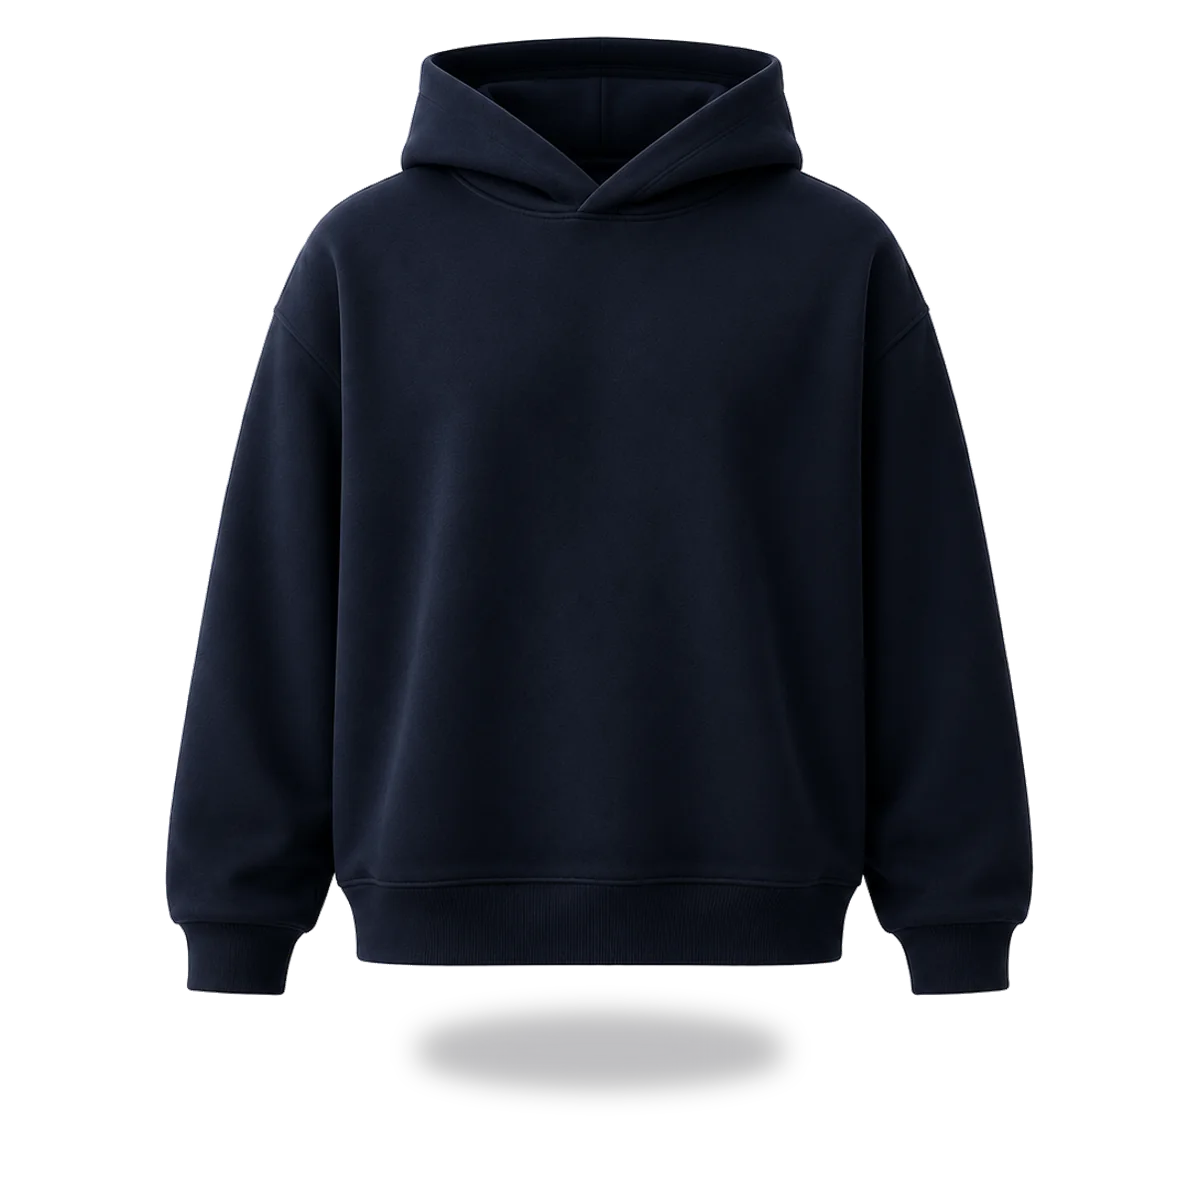
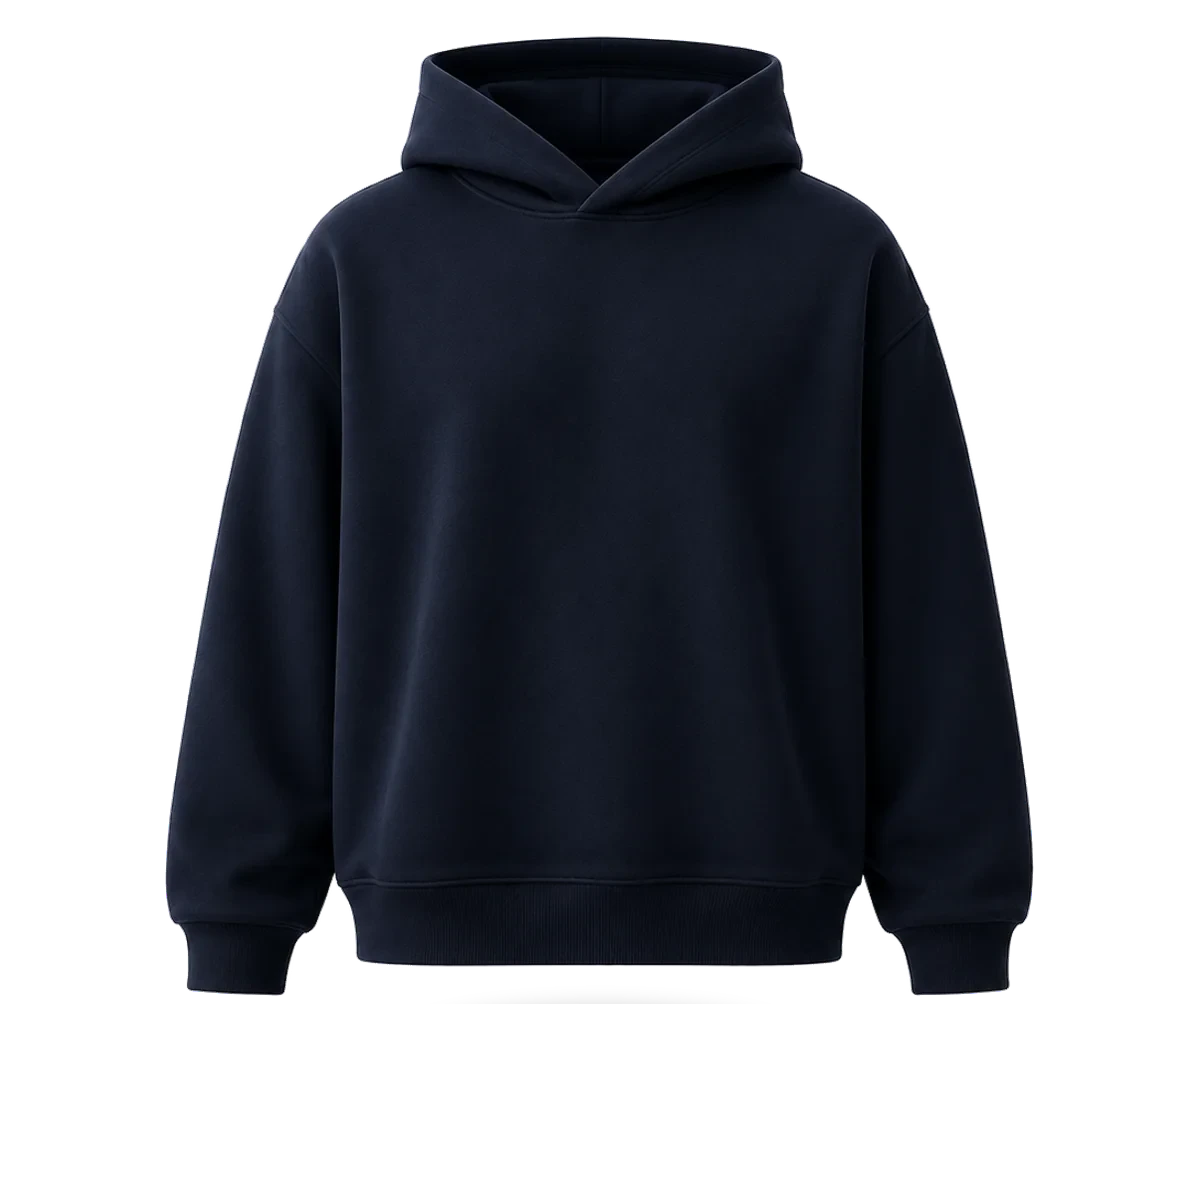
Landing: Nike-style hero slide controls, review cards match niche cards, smaller step art, no product shadows, bigger Telegram button
- Hero: video dots centred under the CTA with the ring timer on the right, styled like the Nike reference, instead of a lone timer floating over the photo
- Review cards now reuse the niche card markup and styles, so both rows look identical
- Step 02/03 artwork trimmed (logo designer 160->126, box 225->170)
- Removed the baked drop shadow under hoodie/tee/sweatshirt catalogue photos
- Telegram button enlarged (54->64, mobile 48->58)

Claude-Session: https://claude.ai/code/session_01GqbCXjaYhVHiwX5P6bgH5H

Changed region(s): [[0.3392, 0.8325, 0.6475, 0.925]]

diff --git a/index.html b/index.html
@@ -114,7 +114,7 @@
   .float-cta-bar .btn{width:88%;max-width:440px;justify-content:center;}
   .float-telegram{
     position:fixed;bottom:100px;left:22px;z-index:80;
-    width:54px;height:54px;border-radius:50%;
+    width:64px;height:64px;border-radius:50%;
     background:#27A7E7;display:flex;align-items:center;justify-content:center;
     box-shadow:0 14px 28px -10px rgba(39,167,231,.55);
     opacity:0;transform:scale(.86);filter:blur(8px);
@@ -128,7 +128,7 @@
   }
   @media (max-width:480px){
     .float-cta-bar{padding:14px 20px calc(14px + env(safe-area-inset-bottom, 0px));}
-    .float-telegram{left:16px;bottom:92px;width:48px;height:48px;}
+    .float-telegram{left:16px;bottom:92px;width:58px;height:58px;}
   }
   /* Menu drawer — 2/3 width, slides in from the right, with backdrop */
   .menu-backdrop{
@@ -211,19 +211,26 @@
       rgba(8,9,14,.42) 100%);
     pointer-events:none;
   }
+  /* Зона перемикання роликів у стилі Nike: крапки по центру, таймер справа */
+  .hero-nike-bar{position:relative;display:flex;align-items:center;justify-content:center;
+    margin-top:16px;min-height:34px;}
+  .hero-nike-bar[hidden]{display:none;}
+  .hero-vid-dots{display:flex;align-items:center;gap:8px;}
+  .hero-vid-dots .vd{width:7px;height:7px;border-radius:50%;padding:0;border:none;cursor:pointer;
+    background:rgba(255,255,255,.45);transition:background .25s ease;}
+  .hero-vid-dots .vd.active{background:#FFFFFF;}
   .hero-video-ui{
-    position:absolute;right:16px;bottom:62px;z-index:3;
-    width:46px;height:46px;border-radius:50%;padding:0;cursor:pointer;
-    background:rgba(12,12,16,.35);border:none;
-    backdrop-filter:blur(8px);-webkit-backdrop-filter:blur(8px);
+    position:absolute;right:0;top:50%;transform:translateY(-50%);z-index:3;
+    width:34px;height:34px;border-radius:50%;padding:0;cursor:pointer;
+    background:transparent;border:none;
   }
   .hero-video-ui[hidden]{display:none;}
   .hero-video-ui svg{position:absolute;inset:0;width:100%;height:100%;transform:rotate(-90deg);}
-  .hvt-bg{stroke:rgba(255,255,255,.25);}
+  .hvt-bg{stroke:rgba(255,255,255,.4);}
   .hvt-fill{stroke:#fff;stroke-dasharray:119.4;stroke-dashoffset:119.4;}
   #heroVideoTimer{
     position:absolute;inset:0;display:flex;align-items:center;justify-content:center;
-    font-size:14px;font-weight:700;color:#fff;font-variant-numeric:tabular-nums;
+    font-size:12px;font-weight:700;color:#fff;font-variant-numeric:tabular-nums;
   }
   .hero-slide-controls{
     position:absolute;left:0;right:0;bottom:18px;z-index:3;
@@ -397,7 +404,7 @@
 
   /* Interactive logo designer (step 02) */
   .step-visual--designer{align-items:flex-start;}
-  .logo-designer{width:100%;max-width:160px;margin:0 auto;user-select:none;-webkit-user-select:none;}
+  .logo-designer{width:100%;max-width:126px;margin:0 auto;user-select:none;-webkit-user-select:none;}
   .ld-stage{position:relative;width:100%;aspect-ratio:1/1;pointer-events:none;}
   .ld-shirt{position:absolute;inset:0;}
   .ld-shirt img{width:100%;height:100%;object-fit:contain;display:block;pointer-events:none;}
@@ -423,7 +430,7 @@
 
   /* Step 03 — box slides in from the right */
   .step-visual--box{overflow:hidden;}
-  .box-slide{width:100%;max-width:225px;margin-left:auto;
+  .box-slide{width:100%;max-width:170px;margin-left:auto;
     transform:translateX(125%);opacity:0;
     transition:transform 1s cubic-bezier(.22,.85,.2,1),opacity .8s ease;}
   .step-block.in .box-slide{transform:translateX(0);opacity:1;}
@@ -910,29 +917,15 @@
   .work-gallery img{flex:0 0 auto;width:156px;height:196px;object-fit:cover;border-radius:16px;scroll-snap-align:start;background:#ececec;}
   @media(min-width:740px){ .work-gallery img{width:190px;height:240px;} }
 
-  /* Стрічка відгуків на головній — та сама інформація, що й у модалці «Відгуки» */
-  .review-strip{display:flex;gap:12px;overflow-x:auto;scrollbar-width:none;padding:2px 18px 6px;
-    scroll-snap-type:x mandatory;-webkit-overflow-scrolling:touch;}
-  .review-strip::-webkit-scrollbar{display:none;}
-  .rs-card{flex:0 0 66%;scroll-snap-align:start;background:#FFFFFF;border:1px solid var(--line);
-    border-radius:18px;padding:0;display:flex;flex-direction:column;overflow:hidden;}
-  @media(min-width:740px){ .rs-card{flex:0 0 248px;} }
-  /* фото відгуку — велике, вертикальне (висота більша за ширину) */
-  .rs-media{position:relative;width:100%;aspect-ratio:1/1.12;background:#ececec;flex:none;overflow:hidden;}
-  .rs-media--ph{display:flex;align-items:center;justify-content:center;
-    background:linear-gradient(160deg,#f3f4f7 0%,#e9ebf0 100%);color:#9aa0ab;font-weight:800;font-size:54px;}
-  .rs-media img{position:absolute;inset:0;width:100%;height:100%;object-fit:cover;display:block;}
-  .rs-body{padding:12px 13px 14px;display:flex;flex-direction:column;gap:7px;}
-  .rs-top{display:flex;align-items:center;gap:9px;}
-  .rs-photo{width:42px;height:42px;border-radius:11px;object-fit:cover;flex:none;background:#ececec;}
-  .rs-ava{width:42px;height:42px;border-radius:11px;flex:none;display:flex;align-items:center;justify-content:center;
-    background:#f0f1f5;color:#555;font-weight:700;font-size:17px;}
-  .rs-name{font-size:15px;font-weight:700;line-height:1.2;}
-  .rs-date{font-size:12px;color:var(--muted);margin-top:2px;}
-  .rs-stars{color:#f5b301;font-size:13px;letter-spacing:1px;}
-  .rs-text{font-size:13.5px;line-height:1.45;color:#333;
+  /* Відгуки на головній — ті самі картки, що й у блоці ніш (.app-card) */
+  .rs-eyebrow{display:flex;align-items:center;gap:6px;}
+  .rs-stars{color:#f5b301;font-size:12px;letter-spacing:.5px;}
+  .rs-name{font-weight:700;font-size:11.5px;color:var(--muted);text-transform:uppercase;letter-spacing:.06em;}
+  .app-card .rs-text{font-size:13.5px;font-weight:600;line-height:1.3;color:var(--ink);letter-spacing:-.01em;
     display:-webkit-box;-webkit-line-clamp:3;-webkit-box-orient:vertical;overflow:hidden;}
-  .rs-more{flex:0 0 auto;align-self:stretch;display:flex;align-items:center;}
+  .rs-ph{width:100%;height:100%;display:flex;align-items:center;justify-content:center;
+    background:linear-gradient(160deg,#f3f4f7 0%,#e9ebf0 100%);color:#a6acb7;font-weight:800;font-size:44px;}
+  .rs-more{flex:0 0 auto;display:flex;align-items:center;padding-right:6px;}
   .rs-more .btn{white-space:nowrap;}
 
   /* Product configurator modal */
@@ -2934,15 +2927,6 @@
     </div>
     <div class="hero-overlay"></div>
 
-    <!-- Круговий таймер відео (стиль Nike): кільце = прогрес, цифра = секунди до наступного -->
-    <button class="hero-video-ui" id="heroVideoUi" hidden aria-label="Наступне відео">
-      <svg viewBox="0 0 44 44" aria-hidden="true">
-        <circle class="hvt-bg" cx="22" cy="22" r="19" fill="none" stroke-width="3"/>
-        <circle class="hvt-fill" id="heroVidRing" cx="22" cy="22" r="19" fill="none" stroke-width="3" stroke-linecap="round"/>
-      </svg>
-      <span id="heroVideoTimer">0</span>
-    </button>
-
     <div class="wrap hero-top reveal">
       <h1>Створіть мерч для команди <span class="accent">за 1 хв</span></h1>
       <p class="lead">Завантажте логотип і одразу побачите точну ціну та дату готовності.</p>
@@ -2955,6 +2939,18 @@
       <div class="hero-rating">
         <span class="hero-rating-stars">★★★★★</span>
         <span class="hero-rating-text">4.9 · 128 відгуків</span>
+      </div>
+
+      <!-- Зона перемикання фонових роликів (стиль Nike): крапки по центру, таймер справа -->
+      <div class="hero-nike-bar" id="heroNikeBar" hidden>
+        <div class="hero-vid-dots" id="heroVidDots"></div>
+        <button class="hero-video-ui" id="heroVideoUi" aria-label="Наступне відео">
+          <svg viewBox="0 0 44 44" aria-hidden="true">
+            <circle class="hvt-bg" cx="22" cy="22" r="19" fill="none" stroke-width="2"/>
+            <circle class="hvt-fill" id="heroVidRing" cx="22" cy="22" r="19" fill="none" stroke-width="2" stroke-linecap="round"/>
+          </svg>
+          <span id="heroVideoTimer">0</span>
+        </button>
       </div>
     </div>
   
@@ -3312,7 +3308,7 @@
         <h3>Що кажуть наші клієнти</h3>
       </div>
     </div>
-    <div class="review-strip reveal" id="reviewStrip"></div>
+    <div class="app-track reveal" id="reviewStrip"></div>
 
 
     <div class="wrap">
@@ -3708,6 +3704,16 @@
     var vids = Array.prototype.slice.call(document.querySelectorAll('.hero-bg-video'));
     var ui = document.getElementById('heroVideoUi');
     if(!vids.length || !ui) return;
+    var bar = document.getElementById('heroNikeBar');
+    var dotsWrap = document.getElementById('heroVidDots');
+    var vdots = [];
+    if(dotsWrap){
+      dotsWrap.innerHTML = vids.map(function(_, i){
+        return '<button class="vd'+(i===0?' active':'')+'" data-i="'+i+'" aria-label="Ролик '+(i+1)+'"></button>';
+      }).join('');
+      vdots = [].slice.call(dotsWrap.querySelectorAll('.vd'));
+    }
+    function markDot(i){ vdots.forEach(function(d,k){ d.classList.toggle('active', k===i); }); }
     var ring = document.getElementById('heroVidRing');
     var RING_LEN = 119.4;
     var timerEl = document.getElementById('heroVideoTimer');
@@ -3751,6 +3757,7 @@
       stopTick();
       var prev = vids[cur];
       cur = idx;
+      markDot(cur);
       ring.style.strokeDashoffset = RING_LEN;
       var v = vids[cur];
       try{ v.currentTime = 0; }catch(e){}
@@ -3794,6 +3801,7 @@
         if(Object.keys(dead).length >= vids.length){
           // жодне відео не вантажиться — лишаємо фонове фото
           ui.hidden = true;
+          if(bar) bar.hidden = true;
           stopTick();
           return;
         }
@@ -3809,6 +3817,13 @@
       if(nx >= 0 && nx !== cur) show(nx);
     });
 
+    vdots.forEach(function(d){
+      d.addEventListener('click', function(){
+        var i = +d.dataset.i;
+        if(i !== cur && !dead[i]) show(i);
+      });
+    });
+
     // не палимо трафік у фоновій вкладці; повертаємось — граємо далі
     document.addEventListener('visibilitychange', function(){
       if(ui.hidden) return;
@@ -3817,6 +3832,7 @@
     });
 
     ui.hidden = false;
+    if(bar) bar.hidden = false;
     show(0);
   })();
 
@@ -6821,18 +6837,16 @@ window.LOOMIQ_CONFIG = {
         var stars= (c.querySelector('.review-stars')||{}).textContent || '★★★★★';
         var text = (c.querySelector('p')||{}).textContent || '';
         var img  = c.querySelector('.review-photo img');
-        // медіа є завжди — так усі картки однакової висоти;
-        // без фото показуємо плитку з першою літерою імені
-        var media = img
-          ? '<div class="rs-media"><img src="'+esc(img.getAttribute('src'))+'" alt="" loading="lazy"></div>'
-          : '<div class="rs-media rs-media--ph"><span>'+esc(name.trim().charAt(0)||'—')+'</span></div>';
-        var head  = '<div><div class="rs-name">'+esc(name)+'</div><div class="rs-date">'+esc(date)+'</div></div>';
-        html += '<article class="rs-card">'+media
-              +   '<div class="rs-body">'
-              +     '<div class="rs-top">'+head+'</div>'
-              +     '<div class="rs-stars">'+esc(stars)+'</div>'
-              +     '<p class="rs-text">'+esc(text)+'</p>'
-              +   '</div>'
+        // будуємо ту саму картку, що й у блоці ніш: лейбл → текст → фото знизу
+        var photo = img
+          ? '<img src="'+esc(img.getAttribute('src'))+'" alt="" loading="lazy">'
+          : '<div class="rs-ph">'+esc(name.trim().charAt(0)||'—')+'</div>';
+        html += '<article class="app-card">'
+              +   '<div class="app-top"><span class="app-eyebrow rs-eyebrow">'
+              +     '<span class="rs-stars">'+esc(stars)+'</span>'
+              +     '<span class="rs-name">'+esc(name)+'</span></span></div>'
+              +   '<div class="app-bottom"><h3 class="rs-text">'+esc(text)+'</h3></div>'
+              +   '<div class="app-photo">'+photo+'</div>'
               + '</article>';
       });
       if(!html) return;
